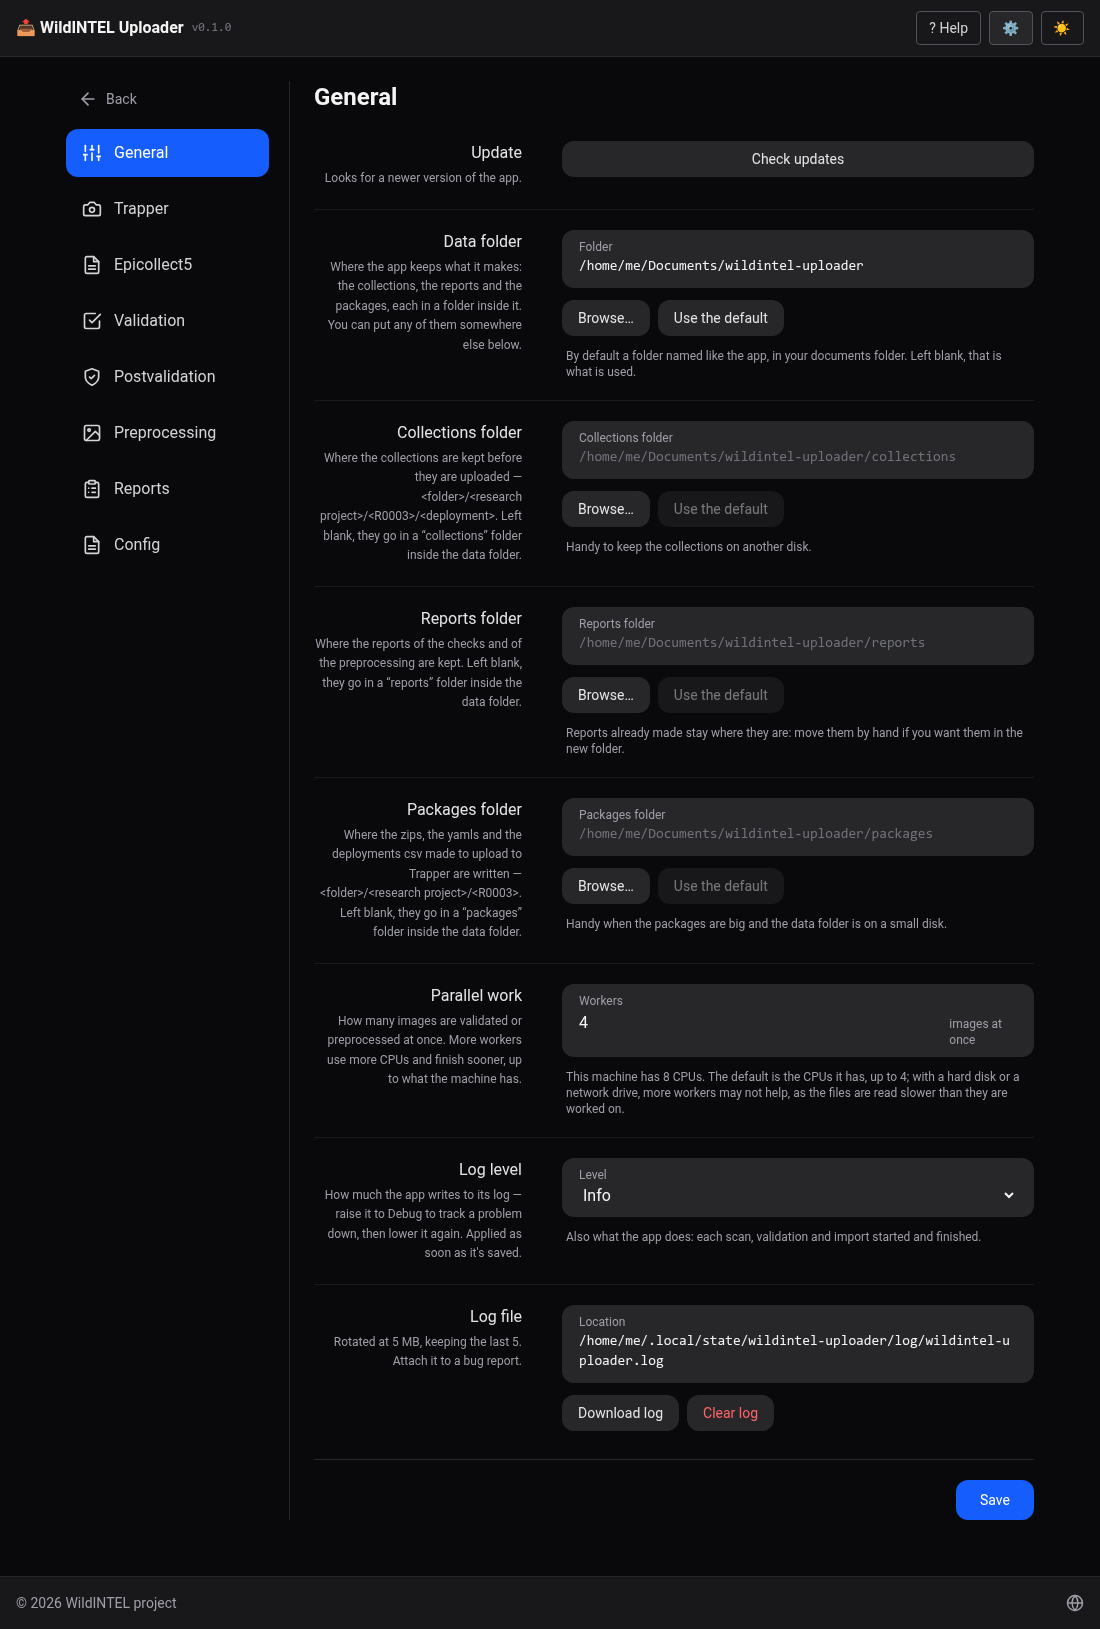
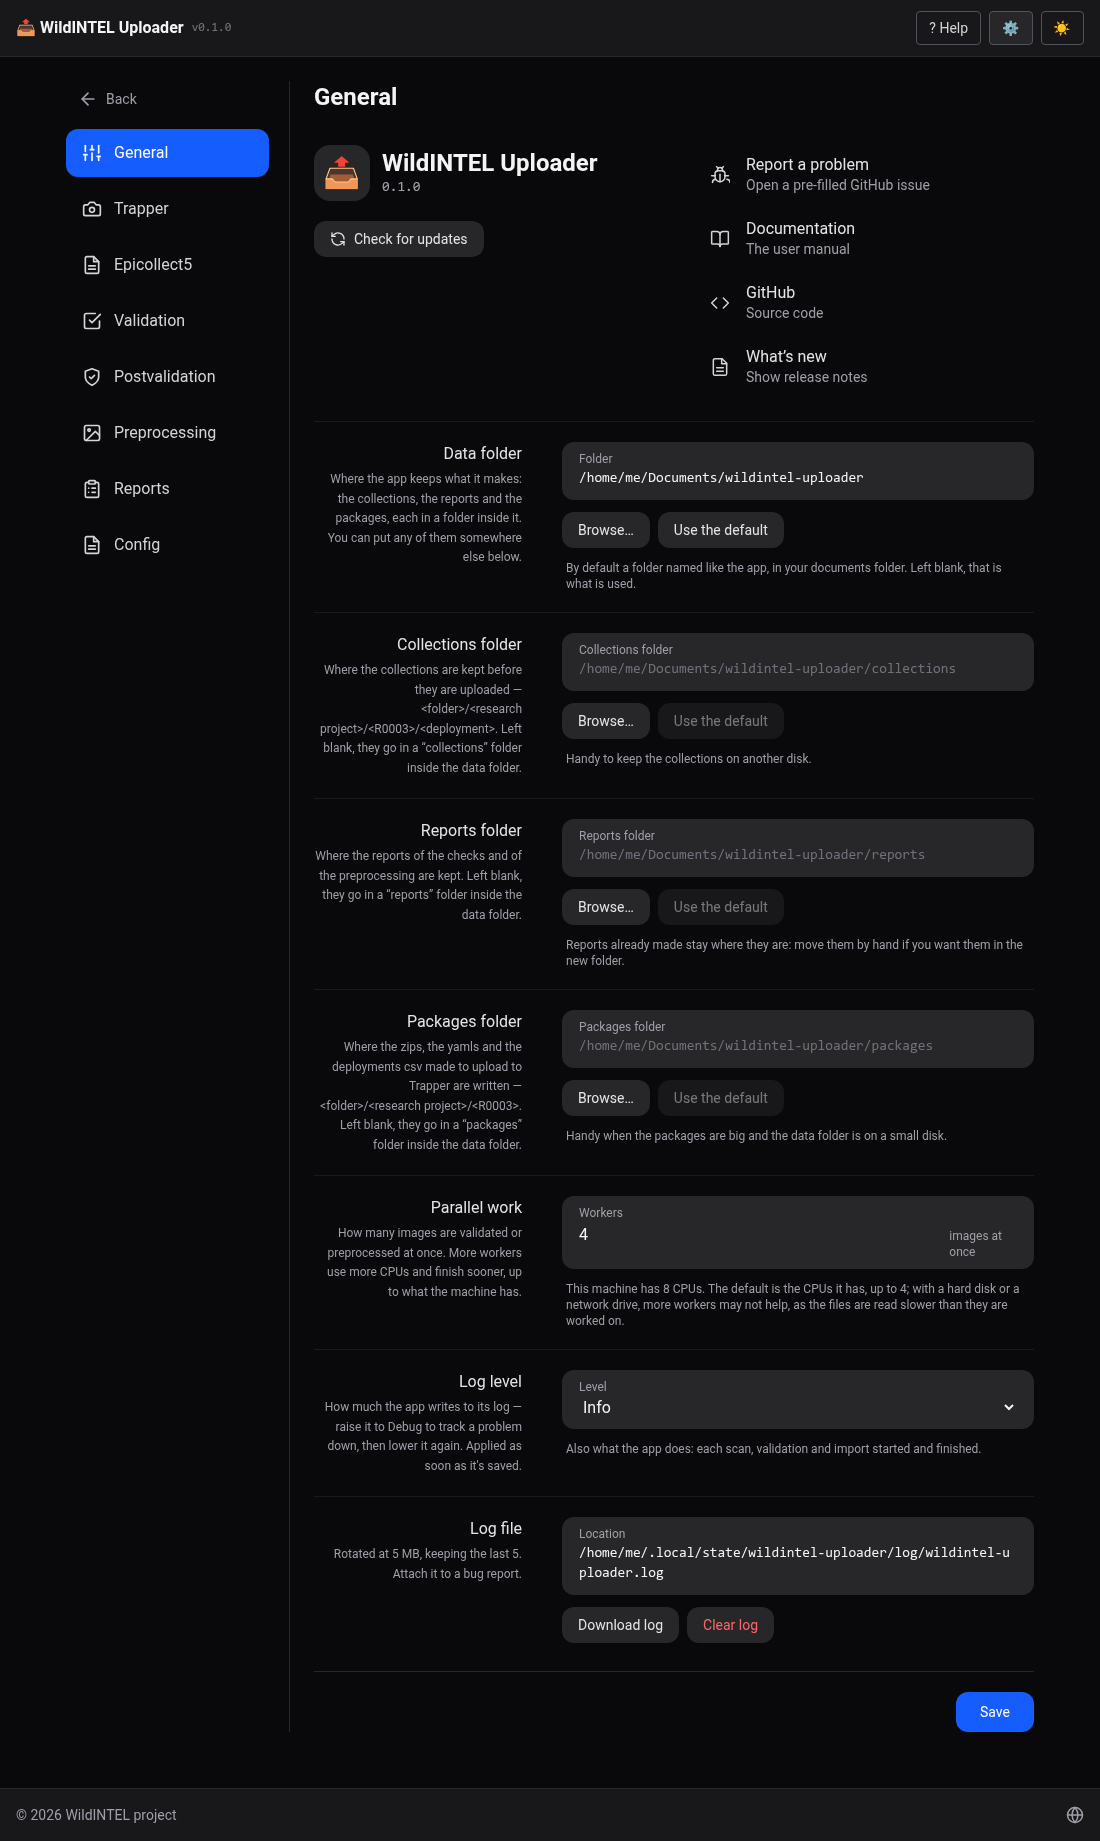
Settings: an About block with the version, the update check and links to report a problem, the documentation, the source and the release notes

diff --git a/frontend/src/pages/SettingsPage.tsx b/frontend/src/pages/SettingsPage.tsx
@@ -2,6 +2,7 @@ import { useEffect, useState } from 'react'
 import type { ReactNode } from 'react'
 import { api } from '../api'
 import EpicollectMapping from '../components/EpicollectMapping'
+import { DOCS_URL, REPO_URL } from '../components/Navbar'
 import { COVERAGE_AREAS, ENTITIES } from '../entities'
 import ReportsList from '../components/ReportsList'
 import type { AppSettings, AppSettingsUpdate, ConfigInfo, DeploymentCheck, ImageCheck, LogLevel, SimilarityMethod, UpdateCheck } from '../types'
@@ -468,16 +469,16 @@ function UpdateCheckButton() {
   }
 
   const result = state.kind === 'result' ? state.check : null
-  const buttonClass = `${btnSoft} justify-center w-full`
+  const buttonClass = `${btnSoft} inline-flex items-center gap-2 justify-center`
   return (
     <>
       {result?.update_available ? (
         <a href={result.download_url ?? result.release_url ?? '#'} target="_blank" rel="noreferrer" className={`${buttonClass} no-underline`}>
-          Tap to download {result.latest}
+          <RefreshIcon />Tap to download {result.latest}
         </a>
       ) : (
         <button type="button" className={buttonClass} disabled={state.kind === 'checking'} onClick={check}>
-          {state.kind === 'checking' ? 'Checking…' : state.kind === 'error' ? 'Tap to retry' : 'Check updates'}
+          <RefreshIcon spinning={state.kind === 'checking'} />{state.kind === 'checking' ? 'Checking…' : state.kind === 'error' ? 'Tap to retry' : 'Check for updates'}
         </button>
       )}
       {state.kind === 'error' && <p className="text-xs text-red-600 dark:text-red-400 px-1">{state.message}</p>}
@@ -490,6 +491,69 @@ function UpdateCheckButton() {
         <p className={`${hintClass} px-1`} role="status">Version {result.latest} is available — you have {result.current}.</p>
       )}
     </>
+  )
+}
+
+function RefreshIcon({ spinning = false }: { spinning?: boolean }) {
+  return (
+    <svg aria-hidden="true" viewBox="0 0 24 24" className={`h-4 w-4 fill-none stroke-current ${spinning ? 'animate-spin' : ''}`} strokeWidth="2" strokeLinecap="round" strokeLinejoin="round">
+      <path d="M21 12a9 9 0 0 0-15.5-6.2L3 8" /><path d="M3 3v5h5" /><path d="M3 12a9 9 0 0 0 15.5 6.2L21 16" /><path d="M16 16h5v5" />
+    </svg>
+  )
+}
+
+const LINK_ICONS: Record<string, ReactNode> = {
+  bug: <><path d="m8 2 1.9 1.9" /><path d="M14.1 3.9 16 2" /><path d="M9 7.1V6a3 3 0 0 1 6 0v1.1" /><path d="M12 20a6 6 0 0 1-6-6v-3a4 4 0 0 1 4-4h4a4 4 0 0 1 4 4v3a6 6 0 0 1-6 6Z" /><path d="M12 20v-9" /><path d="M6.5 13H2" /><path d="M17.5 13H22" /><path d="M3 21c0-2.1 1.7-3.9 3.8-4" /><path d="M20.2 17c2.1.1 3.8 1.9 3.8 4" /></>,
+  book: <><path d="M12 7v14" /><path d="M3 18a1 1 0 0 1-1-1V4a1 1 0 0 1 1-1h5a4 4 0 0 1 4 4 4 4 0 0 1 4-4h5a1 1 0 0 1 1 1v13a1 1 0 0 1-1 1h-6a3 3 0 0 0-3 3 3 3 0 0 0-3-3z" /></>,
+  code: <><path d="m16 18 6-6-6-6" /><path d="m8 6-6 6 6 6" /></>,
+  notes: <><path d="M14.5 2H6a2 2 0 0 0-2 2v16a2 2 0 0 0 2 2h12a2 2 0 0 0 2-2V7.5L14.5 2z" /><polyline points="14 2 14 8 20 8" /><line x1="16" x2="8" y1="13" y2="13" /><line x1="16" x2="8" y1="17" y2="17" /></>,
+}
+
+/** The app, its version and the places to go for help: the update check on the left, the links on the right. */
+function AboutBlock() {
+  const [version, setVersion] = useState<string | null>(null)
+  useEffect(() => {
+    let cancelled = false
+    Promise.resolve().then(() => api.checkVersion()).then((v) => { if (!cancelled) setVersion(v.current) }).catch(() => { /* the version is just not shown */ })
+    return () => { cancelled = true }
+  }, [])
+  const shownVersion = version === null ? null : version === 'dev' ? 'Development build' : version
+  const issue = `${REPO_URL}/issues/new?body=${encodeURIComponent(
+    `**Version:** ${version ?? 'unknown'}\n**Browser:** ${navigator.userAgent}\n\n**What happened?**\n\n**What did you expect?**\n\n**How to reproduce it**\n1. \n\n_Attach the log file (Settings › General › Log file) if you can._\n`,
+  )}`
+  const links = [
+    { icon: 'bug', title: 'Report a problem', subtitle: 'Open a pre-filled GitHub issue', href: issue },
+    { icon: 'book', title: 'Documentation', subtitle: 'The user manual', href: DOCS_URL },
+    { icon: 'code', title: 'GitHub', subtitle: 'Source code', href: REPO_URL },
+    { icon: 'notes', title: 'What’s new', subtitle: 'Show release notes', href: `${REPO_URL}/releases` },
+  ]
+  return (
+    <div className="grid grid-cols-1 md:grid-cols-2 gap-x-10 gap-y-6 py-6" aria-label="About the app" role="group">
+      <div>
+        <div className="flex items-center gap-3">
+          <span aria-hidden="true" className="flex h-14 w-14 items-center justify-center rounded-2xl bg-zinc-100 dark:bg-zinc-800 text-3xl">📤</span>
+          <div>
+            <h4 className="text-2xl font-semibold leading-tight">WildINTEL Uploader</h4>
+            {shownVersion && <p className="text-sm text-zinc-500 dark:text-zinc-400 font-mono" aria-label="Version">{shownVersion}</p>}
+          </div>
+        </div>
+        <div className="mt-5 space-y-2"><UpdateCheckButton /></div>
+      </div>
+      <ul className="space-y-1">
+        {links.map((l) => (
+          <li key={l.title}>
+            <a href={l.href} target="_blank" rel="noreferrer"
+               className="flex items-center gap-4 rounded-lg px-4 py-2.5 no-underline text-zinc-800 dark:text-zinc-200 hover:bg-zinc-100 dark:hover:bg-zinc-800/70 transition-colors">
+              <svg aria-hidden="true" viewBox="0 0 24 24" className="h-5 w-5 shrink-0 fill-none stroke-current text-zinc-600 dark:text-zinc-300" strokeWidth="1.8" strokeLinecap="round" strokeLinejoin="round">{LINK_ICONS[l.icon]}</svg>
+              <span>
+                <span className="block text-base leading-tight">{l.title}</span>
+                <span className="block text-sm text-zinc-500 dark:text-zinc-400">{l.subtitle}</span>
+              </span>
+            </a>
+          </li>
+        ))}
+      </ul>
+    </div>
   )
 }
 
@@ -759,9 +823,7 @@ export default function SettingsPage({ onClose, initialSection }: Props) {
 
         {draft && saved && section === 'general' && (
           <div className="divide-y divide-zinc-200/60 dark:divide-zinc-800/60">
-            <Row label="Update" description="Looks for a newer version of the app.">
-              <UpdateCheckButton />
-            </Row>
+            <AboutBlock />
             <Row
               label="Data folder"
               description="Where the app keeps what it makes: the collections, the reports and the packages, each in a folder inside it. You can put any of them somewhere else below."

diff --git a/frontend/src/pages/SettingsPage.test.tsx b/frontend/src/pages/SettingsPage.test.tsx
@@ -8,7 +8,7 @@ import { APP_SETTINGS } from '../test/fixtures'
 vi.mock('../api', () => ({
   api: {
     getSettings: vi.fn(), saveSettings: vi.fn(), clearLog: vi.fn(), browseFolder: vi.fn(), trapperTestConnection: vi.fn(), epicollectTestConnection: vi.fn(),
-    checkForUpdate: vi.fn(), listReports: vi.fn(), deleteReport: vi.fn(), getReport: vi.fn(), reportUrl: (id: string, format: string) => `/api/reports/${id}/download?format=${format}`, configs: vi.fn(), addConfig: vi.fn(), activateConfig: vi.fn(), openConfigFolder: vi.fn(),
+    checkVersion: vi.fn(), checkForUpdate: vi.fn(), listReports: vi.fn(), deleteReport: vi.fn(), getReport: vi.fn(), reportUrl: (id: string, format: string) => `/api/reports/${id}/download?format=${format}`, configs: vi.fn(), addConfig: vi.fn(), activateConfig: vi.fn(), openConfigFolder: vi.fn(),
   },
 }))
 
@@ -252,6 +252,39 @@ describe('SettingsPage', () => {
       await userEvent.type(screen.getByLabelText('Slug'), 'donana')
       await userEvent.click(screen.getByRole('button', { name: 'Test connection' }))
       expect(await screen.findByText('Epicollect5 refused the client id and secret.')).toBeInTheDocument()
+    })
+  })
+
+  describe('About the app', () => {
+    it('shows the name and the version of the app, and the places to go for help', async () => {
+      mockedApi.checkVersion.mockResolvedValue({ current: '0.1.0' })
+      render(<SettingsPage onClose={vi.fn()} />)
+
+      const about = within(await screen.findByRole('group', { name: 'About the app' }))
+      expect(about.getByText('WildINTEL Uploader')).toBeInTheDocument()
+      expect(await about.findByLabelText('Version')).toHaveTextContent('0.1.0')
+      expect(about.getByRole('button', { name: 'Check for updates' })).toBeInTheDocument()
+      expect(about.getByRole('link', { name: /Documentation/ })).toHaveAttribute('href', 'https://wildintelproject.github.io/wildintel-uploader/')
+      expect(about.getByRole('link', { name: /^GitHub/ })).toHaveAttribute('href', 'https://github.com/wildintelproject/wildintel-uploader')
+      expect(about.getByRole('link', { name: /What’s new/ })).toHaveAttribute('href', 'https://github.com/wildintelproject/wildintel-uploader/releases')
+    })
+
+    it('opens a GitHub issue that already says the version', async () => {
+      mockedApi.checkVersion.mockResolvedValue({ current: '0.1.0' })
+      render(<SettingsPage onClose={vi.fn()} />)
+
+      const link = await screen.findByRole('link', { name: /Report a problem/ })
+      await screen.findByLabelText('Version')
+      const href = link.getAttribute('href') ?? ''
+      expect(href.startsWith('https://github.com/wildintelproject/wildintel-uploader/issues/new?body=')).toBe(true)
+      await waitFor(() => expect(decodeURIComponent(screen.getByRole('link', { name: /Report a problem/ }).getAttribute('href') ?? '')).toContain('**Version:** 0.1.0'))
+    })
+
+    it('says it is a development build instead of a version', async () => {
+      mockedApi.checkVersion.mockResolvedValue({ current: 'dev' })
+      render(<SettingsPage onClose={vi.fn()} />)
+
+      expect(await screen.findByLabelText('Version')).toHaveTextContent('Development build')
     })
   })
 
@@ -836,7 +869,7 @@ describe('SettingsPage', () => {
       mockedApi.checkForUpdate.mockResolvedValue(CHECK)
       render(<SettingsPage onClose={() => {}} />)
 
-      await userEvent.click(await screen.findByRole('button', { name: 'Check updates' }))
+      await userEvent.click(await screen.findByRole('button', { name: 'Check for updates' }))
 
       expect(await screen.findByText(/up to date \(version 0\.1\.0\)/)).toBeInTheDocument()
     })
@@ -848,7 +881,7 @@ describe('SettingsPage', () => {
       })
       render(<SettingsPage onClose={() => {}} />)
 
-      await userEvent.click(await screen.findByRole('button', { name: 'Check updates' }))
+      await userEvent.click(await screen.findByRole('button', { name: 'Check for updates' }))
 
       expect(await screen.findByRole('link', { name: 'Tap to download 0.2.0' })).toHaveAttribute('href', 'https://dl/app-0.2.0-linux-x86_64.AppImage')
     })
@@ -858,7 +891,7 @@ describe('SettingsPage', () => {
       mockedApi.checkForUpdate.mockResolvedValueOnce(CHECK)
       render(<SettingsPage onClose={() => {}} />)
 
-      await userEvent.click(await screen.findByRole('button', { name: 'Check updates' }))
+      await userEvent.click(await screen.findByRole('button', { name: 'Check for updates' }))
       expect(await screen.findByText(/offline/)).toBeInTheDocument()
       await userEvent.click(screen.getByRole('button', { name: 'Tap to retry' }))
 

diff --git a/frontend/src/components/Navbar.tsx b/frontend/src/components/Navbar.tsx
@@ -11,6 +11,9 @@ interface Props {
 /** The published documentation (docs/, see mkdocs.yml's site_url). */
 export const DOCS_URL = 'https://wildintelproject.github.io/wildintel-uploader/'
 
+/** The project on GitHub (see mkdocs.yml's repo_url). */
+export const REPO_URL = 'https://github.com/wildintelproject/wildintel-uploader'
+
 const btnOutline = 'px-3 py-1.5 text-sm border border-zinc-300 dark:border-zinc-600 rounded hover:bg-zinc-100 dark:hover:bg-zinc-800 text-zinc-700 dark:text-zinc-300 transition-colors'
 
 export default function Navbar({ version, onHome, onOpenSettings, settingsOpen }: Props) {

diff --git a/CHANGELOG.md b/CHANGELOG.md
@@ -58,6 +58,7 @@ adheres to [Semantic Versioning](https://semver.org/spec/v2.0.0.html).
 - **Epicollect5 settings**: a switch turns the use of Epicollect5 on or off (off by default), and another sends what an entry answers in inputs with no mapping to the comments of the deployment. *When was it collected?* says when Epicollect5 has an entry for the location and revision.
 - **Upload to Trapper**: an option deletes the package files — the zips, the yamls and the deployment's row of the deployments csv — once they are up; without it they are kept (and the csv written) in the packages folder, and the result says where. The deployment's row of a collection's *FileTimestampLog* is written in lower case, as Trapper keeps its ids.
 - **Folders**: *Settings › General* sets a folder of their own for the collections, the reports and the packages (`DATA.collections_dir`, `DATA.reports_dir`, `DATA.packages_dir`); blank, each stays in its folder inside the data folder, in Documents. The sessions in progress live in the system's state folder (`~/.local/state/wildintel-uploader/sessions` on Linux) and the log file in its log folder (`~/.local/state/wildintel-uploader/log`); neither can be changed, and what was in Documents or beside `settings.toml` is moved there at start.
+- **About the app** (*Settings › General*): the name and the version, the update check and links to report a problem (a GitHub issue that already says the version), the documentation, the source code and the release notes.
 - **Utils** (menu): *Repair local deployments* and *Sync local collections* are kept under one button, apart from the import and upload tasks.
 - **Sync local collections**: pick a research project and one of its classification projects in Trapper, and the collections
   folder gets what it lacks — the research project (`research_project.json`) and its `locations.json`, the collections

diff --git a/docs/user-manual-web.md b/docs/user-manual-web.md
@@ -52,7 +52,7 @@ dot marks a section with an invalid value.
   every step.
 - **Log file** — download it, or delete it. It lives in the log folder of your system (`~/.local/state/wildintel-uploader/log` on Linux), which can't be changed. It rotates at 5 MB keeping the last 5. Attach it to any
   bug report.
-- **Update** — looks for a newer version.
+- **About** — at the top: the app's name and version, **Check for updates** (it offers the download when there is a newer version), and links to **Report a problem** (a GitHub issue that already says the version and your browser), the **Documentation**, the **GitHub** project and **What's new** (the release notes).
 
 ### Trapper
 
